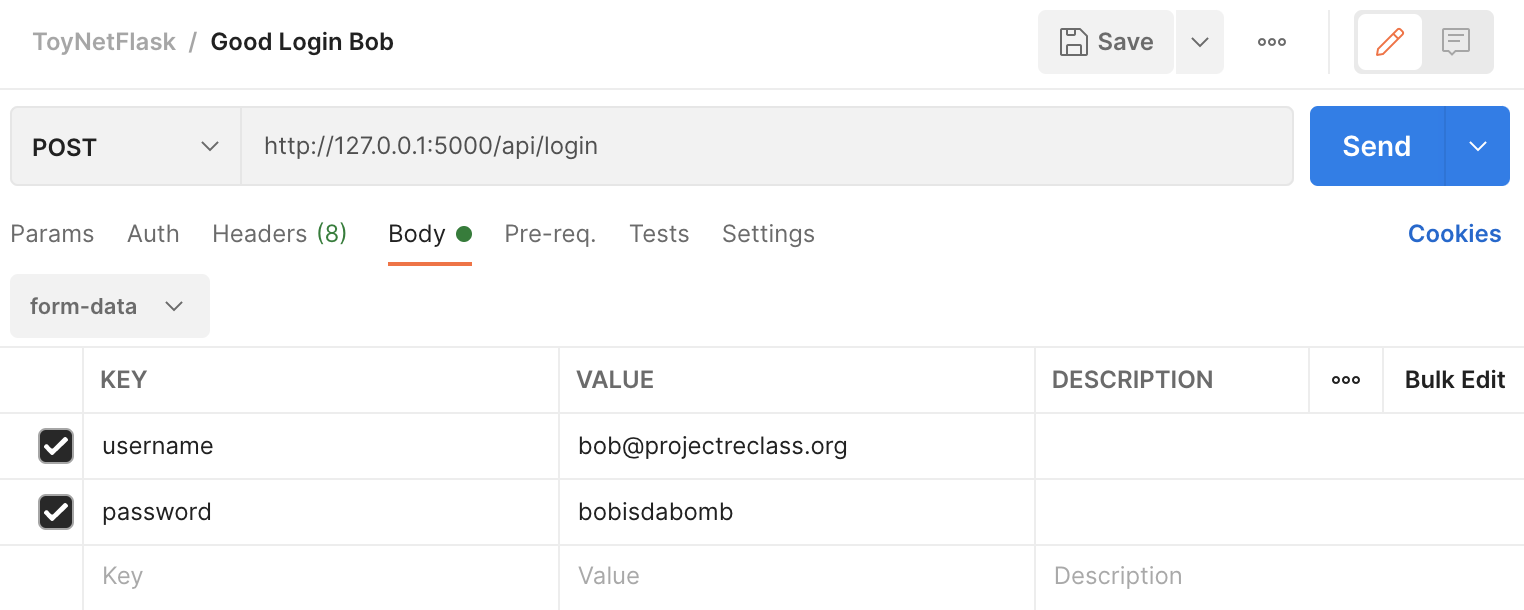
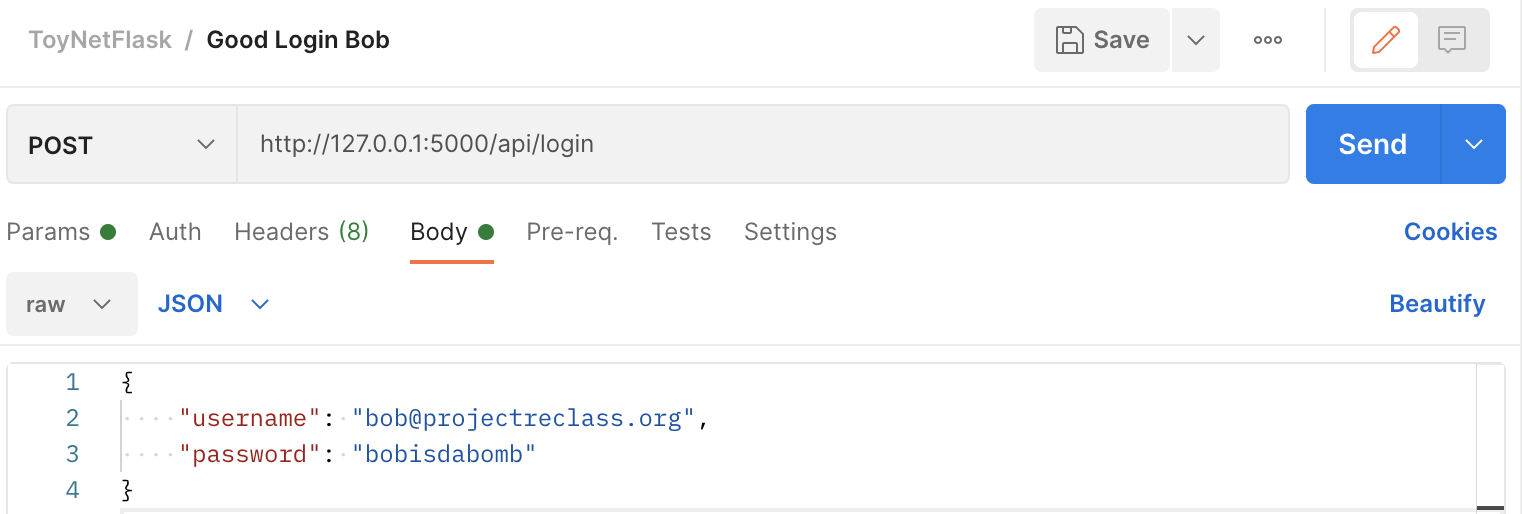
form data to json data (#14)
* form data to json data

* update documentation: form -> json

diff --git a/tests/test_users.py b/tests/test_users.py
@@ -24,7 +24,7 @@ def test_user_post(client):
     # with first_name
     rv = client.post(
         '/api/user',
-        data={
+        json={
             'username': 'bob@projectreclass.org',
             'password': 'bobisdabomb',
             'first_name': 'Bob',
@@ -35,7 +35,7 @@ def test_user_post(client):
     # without first_name
     rv = client.post(
         '/api/user',
-        data={
+        json={
             'username': 'alice@projectreclass.org',
             'password': 'aliceisdabomb',
         },
@@ -45,7 +45,7 @@ def test_user_post(client):
     # missing password
     rv = client.post(
         '/api/user',
-        data={'username': 'alice@projectreclass.org'},
+        json={'username': 'alice@projectreclass.org'},
     )
     assert rv.status_code == 400
     rv_json = json.loads(rv.data.decode('utf-8'))
@@ -57,7 +57,7 @@ def test_userLogin_post(client):
     # insert
     rv = client.post(
         '/api/user',
-        data={
+        json={
             'username': 'bob@projectreclass.org',
             'password': 'bobisdabomb',
             'first_name': 'Bob',
@@ -69,7 +69,7 @@ def test_userLogin_post(client):
     # good login attempt
     rv = client.post(
         '/api/login',
-        data={
+        json={
             'username': 'bob@projectreclass.org',
             'password': 'bobisdabomb',
         },
@@ -83,7 +83,7 @@ def test_userLogin_post(client):
     # bad login attempt
     rv = client.post(
         '/api/login',
-        data={
+        json={
             'username': 'bob@projectreclass.org',
             'password': 'bobisdabroom',
         },
@@ -99,7 +99,7 @@ def test_jwtRequired_wrongUser(client):
     # create veteran user
     rv = client.post(
         '/api/user',
-        data={
+        json={
             'username': 'veteran@projectreclass.org',
             'password': 'bossvet123',
             'first_name': 'Boss',
@@ -110,7 +110,7 @@ def test_jwtRequired_wrongUser(client):
     # login as veteran user
     rv = client.post(
         '/api/login',
-        data={
+        json={
             'username': 'veteran@projectreclass.org',
             'password': 'bossvet123',
         },
@@ -122,7 +122,7 @@ def test_jwtRequired_wrongUser(client):
     # insert personal entry as veteran user
     rv = client.put(
         '/api/value/5004/entry',
-        data={'quote': "Integrity is honesty."},
+        json={'quote': "Integrity is honesty."},
         headers = {'Authorization': 'Bearer {}'.format(vet_access_token)},
     )
     assert rv.status_code == 200
@@ -130,7 +130,7 @@ def test_jwtRequired_wrongUser(client):
     # create civilian user
     rv = client.post(
         '/api/user',
-        data={
+        json={
             'username': 'civilian@projectreclass.org',
             'password': 'civilboss123',
             'first_name': 'Boss',
@@ -141,7 +141,7 @@ def test_jwtRequired_wrongUser(client):
     # login as civilian user
     rv = client.post(
         '/api/login',
-        data={
+        json={
             'username': 'civilian@projectreclass.org',
             'password': 'civilboss123',
         },
@@ -165,7 +165,7 @@ def test_jwtRequired_twoActiveUsers(client):
     # create veteran user
     rv = client.post(
         '/api/user',
-        data={
+        json={
             'username': 'veteran@projectreclass.org',
             'password': 'bossvet123',
             'first_name': 'Boss',
@@ -176,7 +176,7 @@ def test_jwtRequired_twoActiveUsers(client):
     # login as veteran user
     rv = client.post(
         '/api/login',
-        data={
+        json={
             'username': 'veteran@projectreclass.org',
             'password': 'bossvet123',
         },
@@ -188,7 +188,7 @@ def test_jwtRequired_twoActiveUsers(client):
     # insert personal entry as veteran user
     rv = client.put(
         '/api/value/5004/entry',
-        data={'quote': "I am a veteran. I have integrity."},
+        json={'quote': "I am a veteran. I have integrity."},
         headers = {'Authorization': 'Bearer {}'.format(vet_access_token)},
     )
     assert rv.status_code == 200
@@ -196,7 +196,7 @@ def test_jwtRequired_twoActiveUsers(client):
     # create civilian user
     rv = client.post(
         '/api/user',
-        data={
+        json={
             'username': 'civilian@projectreclass.org',
             'password': 'civilboss123',
             'first_name': 'Boss',
@@ -207,7 +207,7 @@ def test_jwtRequired_twoActiveUsers(client):
     # login as civilian user
     rv = client.post(
         '/api/login',
-        data={
+        json={
             'username': 'civilian@projectreclass.org',
             'password': 'civilboss123',
         },
@@ -219,7 +219,7 @@ def test_jwtRequired_twoActiveUsers(client):
     # insert personal entry as civilian user
     rv = client.put(
         '/api/value/5004/entry',
-        data={'quote': "I am a civilian. I have integrity."},
+        json={'quote': "I am a civilian. I have integrity."},
         headers = {'Authorization': 'Bearer {}'.format(civ_access_token)},
     )
     assert rv.status_code == 200

diff --git a/tests/test_values.py b/tests/test_values.py
@@ -59,7 +59,7 @@ def test_valueEntryById_put(client):
     # create user
     rv = client.post(
         '/api/user',
-        data={
+        json={
             'username': 'veteran@projectreclass.org',
             'password': 'bossvet123',
             'first_name': 'Boss',
@@ -70,7 +70,7 @@ def test_valueEntryById_put(client):
     # login as user
     rv = client.post(
         '/api/login',
-        data={
+        json={
             'username': 'veteran@projectreclass.org',
             'password': 'bossvet123',
         },
@@ -92,7 +92,7 @@ def test_valueEntryById_put(client):
     # insert personal entry
     rv = client.put(
         '/api/value/5004/entry',
-        data={'quote': "Integrity is honesty."},
+        json={'quote': "Integrity is honesty."},
         headers = {'Authorization': 'Bearer {}'.format(access_token)},
     )
     assert rv.status_code == 200
@@ -111,7 +111,7 @@ def test_valueEntryById_putTwice(client):
     # create user
     rv = client.post(
         '/api/user',
-        data={
+        json={
             'username': 'veteran@projectreclass.org',
             'password': 'bossvet123',
             'first_name': 'Boss',
@@ -122,7 +122,7 @@ def test_valueEntryById_putTwice(client):
     # login as user
     rv = client.post(
         '/api/login',
-        data={
+        json={
             'username': 'veteran@projectreclass.org',
             'password': 'bossvet123',
         },
@@ -135,7 +135,7 @@ def test_valueEntryById_putTwice(client):
     # insert personal entry
     rv = client.put(
         '/api/value/5004/entry',
-        data={'quote': "Integrity is honesty."},
+        json={'quote': "Integrity is honesty."},
         headers = {'Authorization': 'Bearer {}'.format(access_token)},
     )
     assert rv.status_code == 200
@@ -143,7 +143,7 @@ def test_valueEntryById_putTwice(client):
     # insert new personal entry
     rv = client.put(
         '/api/value/5004/entry',
-        data={'quote': "Integrity is MORE THAN honesty."},
+        json={'quote': "Integrity is MORE THAN honesty."},
         headers = {'Authorization': 'Bearer {}'.format(access_token)},
     )
     assert rv.status_code == 200

diff --git a/tests/test_sessions.py b/tests/test_sessions.py
@@ -22,7 +22,7 @@ def test_topo_id_post(client):
     '''Check the POST topo_id returns a session id if valid or error if not'''
     client.post(
           '/api/user',
-          data = {
+          json={
               'username': 'arthur@projectreclass.org',
               'password': 'BaLtH@$0R',
               'first_name': 'Arthur',
@@ -31,7 +31,7 @@ def test_topo_id_post(client):
 
     rv = client.post(
         '/api/toynet/session',
-        data = {
+        json={
             'toynet_topo_id': 1,
             'toynet_user_id': 'arthur@projectreclass.org',
         },
@@ -45,7 +45,7 @@ def test_topo_id_post(client):
     #Invalid toynet_topo_id number
     rv = client.post(
         '/api/toynet/session',
-        data = {
+        json={
             'toynet_topo_id': -5,
             'toynet_user_id': 'arthur@projectreclass.org',
         },
@@ -57,7 +57,7 @@ def test_topo_id_post(client):
     #invalid user id
     rv = client.post(
         '/api/toynet/session',
-        data = {
+        json={
             'toynet_topo_id': 1,
             'toynet_user_id': 'loser@projectreclass.org', #this should produce an error because we have no losers. #facts
         },
@@ -87,7 +87,7 @@ def test_session_by_id_get(client):
 def test_session_by_id_put(client):
     rv = client.put(
         '/api/toynet/session/1',
-        data = {'new_topology': 'aq49i',},
+        json={'new_topology': 'aq49i',},
     )
 
     get_rv = client.get('/api/toynet/session/1')

diff --git a/flasksrc/session.py b/flasksrc/session.py
@@ -29,7 +29,7 @@ class ToyNetSession(MethodResource):
     @marshal_with(ToyNetSessionPostResp)
     def post(self):
         try:
-            req = ToyNetSessionPostReq().load(request.form)
+            req = ToyNetSessionPostReq().load(request.json)
         except ValidationError as e:
             abort(400, message=f'malformed request: {e.messages}')
 
@@ -111,7 +111,7 @@ class ToyNetSessionById(MethodResource):
     @marshal_with(ToyNetSessionByIdPutReq)
     def put(self, toynet_session_id):
         try:
-            req = ToyNetSessionByIdPutReq().load(request.form)
+            req = ToyNetSessionByIdPutReq().load(request.json)
         except ValidationError as e:
             abort(400, message=f'malformed request: {e.messages}')
 

diff --git a/flasksrc/user.py b/flasksrc/user.py
@@ -36,7 +36,7 @@ class ToyNetUser(MethodResource):
     @marshal_with(ToyNetUserPostResp)
     def post(self):
         try:
-            req = ToyNetUserPostReq().load(request.form)
+            req = ToyNetUserPostReq().load(request.json)
         except ValidationError as e:
             abort(400, message=f'malformed create user request: {e.messages}')
 
@@ -64,7 +64,7 @@ class ToyNetUserLogin(MethodResource):
     @marshal_with(ToyNetUserLoginPostResp)
     def post(self):
         try:
-            req = ToyNetUserLoginPostReq().load(request.form)
+            req = ToyNetUserLoginPostReq().load(request.json)
         except ValidationError:
             # avoid including username/password in abort message
             abort(

diff --git a/flasksrc/value.py b/flasksrc/value.py
@@ -83,7 +83,7 @@ class ToyNetValueEntryById(MethodResource):
     @jwt_required()
     def put(self, value_id):
         try:
-            req = ToyNetValueEntryPutReq().load(request.form)
+            req = ToyNetValueEntryPutReq().load(request.json)
         except ValidationError as e:
             abort(400, message=f'malformed create user request: {e.messages}')
 
